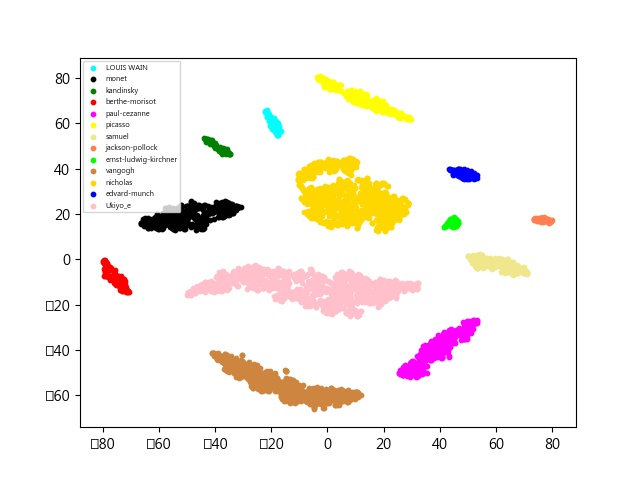
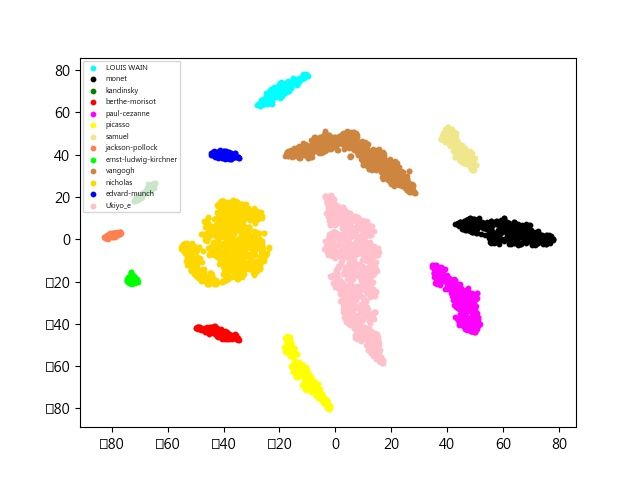
add new images to LOUIS_WAIN dataset and test classify accuracy and update cluster

diff --git a/README.md b/README.md
@@ -46,6 +46,9 @@ https://openaccess.thecvf.com/content/ICCV2021/papers/Xu_DRB-GAN_A_Dynamic_ResBl
 ### Style classification
 * class accuracy: 0.9672864203341963
 * error rate about nicholas is highest: 66/858 = 0.0769
+* update LOUIS_WAIN 90 -> 190:
+  * class accuracy: 0.961644464859899
+  * error rate about LOUIS_WAIN is highest: 29/190 = 0.1526
 
 ## UMAP and TSNE
 ### UMAP for style codes
